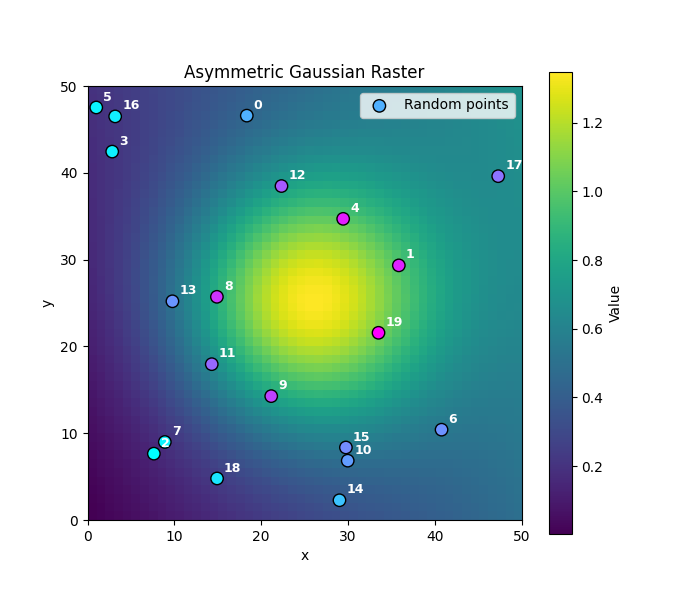
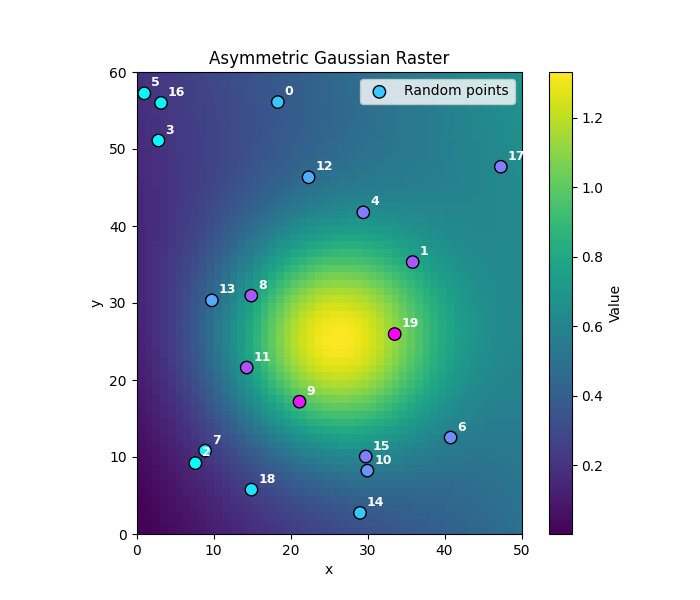
Check against amr_wind::interp::bilinear

diff --git a/unit_tests/utilities/test_raster_asc.cpp b/unit_tests/utilities/test_raster_asc.cpp
@@ -6,18 +6,18 @@
 
 using amr_wind::utils::RasterASC;
 
-double simple_bilinear(
-    double xll,
-    double yll,
-    double dx,
+amrex::Real simple_bilinear(
+    amrex::Real xll,
+    amrex::Real yll,
+    amrex::Real dx,
     int nx,
     int ny,
-    const std::vector<double>& vals,
-    double x,
-    double y)
+    const amrex::Vector<amrex::Real>& vals,
+    amrex::Real x,
+    amrex::Real y)
 {
-    double fx = (x - xll) / dx;
-    double fy = (y - yll) / dx;
+    amrex::Real fx = (x - xll) / dx;
+    amrex::Real fy = (y - yll) / dx;
     int i = static_cast<int>(fx);
     int j = static_cast<int>(fy);
 
@@ -27,21 +27,21 @@ double simple_bilinear(
     if (i >= nx - 1) i = nx - 2;
     if (j >= ny - 1) j = ny - 2;
 
-    double ddx = fx - i;
-    double ddy = fy - j;
+    amrex::Real ddx = fx - i;
+    amrex::Real ddy = fy - j;
 
     int idx00 = j * nx + i;
     int idx10 = j * nx + (i + 1);
     int idx01 = (j + 1) * nx + i;
     int idx11 = (j + 1) * nx + (i + 1);
 
-    double v00 = vals[idx00];
-    double v10 = vals[idx10];
-    double v01 = vals[idx01];
-    double v11 = vals[idx11];
+    amrex::Real v00 = vals[idx00];
+    amrex::Real v10 = vals[idx10];
+    amrex::Real v01 = vals[idx01];
+    amrex::Real v11 = vals[idx11];
 
-    double v0 = v00 * (1.0 - ddx) + v10 * ddx;
-    double v1 = v01 * (1.0 - ddx) + v11 * ddx;
+    amrex::Real v0 = v00 * (1.0 - ddx) + v10 * ddx;
+    amrex::Real v1 = v01 * (1.0 - ddx) + v11 * ddx;
     return v0 * (1.0 - ddy) + v1 * ddy;
 }
 
@@ -73,45 +73,57 @@ TEST(RasterASC, ReadAndInterp)
     RasterASC raster;
     raster.read("unit_tests/utilities/raster.asc");
 
-    std::vector<double> vals(
+    amrex::Vector<amrex::Real> vals(
         raster.value_ptr(), raster.value_ptr() + raster.nx() * raster.ny());
 
-    std::vector<double> xvec(raster.nx()), yvec(raster.ny());
+    amrex::Vector<amrex::Real> xvec(raster.nx()), yvec(raster.ny());
     for (int i = 0; i < raster.nx(); ++i)
         xvec[i] = raster.x0() + i * raster.dx();
     for (int j = 0; j < raster.ny(); ++j)
         yvec[j] = raster.y0() + j * raster.dx();
 
-    std::vector<std::tuple<double, double, double>> sample_points = {
-        {18.35246582, 46.58500101, 0.44239862},
-        {35.86770315, 29.33426573, 0.94196709},
-        {7.64491338, 7.64373150, 0.16562960},
-        {2.84609700, 42.44263114, 0.21750405},
-        {29.45463558, 34.69555631, 0.95882797},
-        {1.00864022, 47.52558276, 0.20468483},
-        {40.78968940, 10.40461642, 0.54802177},
-        {8.90942339, 8.98682098, 0.21414673},
-        {14.90786991, 25.71306515, 0.87791723},
-        {21.16530591, 14.27022787, 0.82893759},
-        {29.98079184, 6.83519917, 0.50818880},
-        {14.31508778, 17.95173032, 0.69534286},
-        {22.34742923, 38.47362211, 0.74547716},
-        {9.78401533, 25.19748748, 0.53652727},
-        {29.02831387, 2.27607022, 0.37606392},
-        {29.76969774, 8.35568206, 0.56783972},
-        {3.18752806, 46.49539133, 0.22711187},
-        {47.31596962, 39.61147006, 0.65539201},
-        {14.92607469, 4.78593359, 0.25920084},
-        {33.52741830, 21.56747219, 1.05801096},
-    };
-    for (size_t idx = 0; idx < sample_points.size(); ++idx) {
-        const auto& [x, y, expected] = sample_points[idx];
-        double actual = raster.interp(x, y);
-        double bilinear = amr_wind::interp::bilinear(xvec, yvec, vals, x, y);
+    const auto nx = raster.nx();
+    const auto ny = raster.ny();
+    amrex::Vector<amrex::Real> vals_colmajor(nx * ny);
+    for (int j = 0; j < ny; ++j) {
+        for (int i = 0; i < nx; ++i) {
+            vals_colmajor[i * ny + j] = vals[j * nx + i];
+        }
+    }
 
-        std::cout << "Point [" << idx << "] interp(" << x << ", " << y
-                  << ") = " << actual << ", bilinear = " << bilinear
-                  << ", expected = " << expected << std::endl;
+    amrex::Vector<std::tuple<amrex::Real, amrex::Real, amrex::Real>>
+        sample_points = {
+            {18.35246582, 56.09214408, 0.37614633},
+            {35.86770315, 35.32085057, 0.76834714},
+            {7.64491338, 9.20367670, 0.18235972},
+            {2.84609700, 51.10439260, 0.20160817},
+            {29.45463558, 41.77628209, 0.63283002},
+            {1.00864022, 57.22468128, 0.20113749},
+            {40.78968940, 12.52800753, 0.57948968},
+            {8.90942339, 10.82086608, 0.24168717},
+            {14.90786991, 30.96062947, 0.76456552},
+            {21.16530591, 17.18251927, 0.99193907},
+            {29.98079184, 8.23013778, 0.55662496},
+            {14.31508778, 21.61534875, 0.78565062},
+            {22.34742923, 46.32538172, 0.46843597},
+            {9.78401533, 30.33983187, 0.48460924},
+            {29.02831387, 2.74057435, 0.38430209},
+            {29.76969774, 10.06092330, 0.63800644},
+            {3.18752806, 55.98424670, 0.21921830},
+            {47.31596962, 47.69544354, 0.63721744},
+            {14.92607469, 5.76265473, 0.27800605},
+            {33.52741830, 25.96899713, 1.07977482},
+        };
+    for (int idx = 0; idx < sample_points.size(); ++idx) {
+        const auto& [x, y, expected] = sample_points[idx];
+        amrex::Real actual = raster.interp(x, y);
+        amrex::Real bilinear =
+            amr_wind::interp::bilinear(xvec, yvec, vals_colmajor, x, y);
+
+        // std::cout << "Point [" << idx << "] interp(" << x << ", " << y
+        //           << ") = " << actual << ", bilinear = " << bilinear
+        //           << ", expected = " << expected << std::endl;
         EXPECT_NEAR(actual, expected, 1e-8);
+        EXPECT_NEAR(actual, bilinear, 1e-8);
     }
 }

diff --git a/unit_tests/utilities/test_raster_asc.py b/unit_tests/utilities/test_raster_asc.py
@@ -29,7 +29,7 @@ def check_rasterio_cell_values(raster_path, points):
 
 def main(plot=False, npoints=20, seed=42):
     # --- 1. Generate raster with Gaussian hill + asymmetry ---
-    ncols = nrows = 50
+    ncols, nrows = 50, 60
     xllcorner = yllcorner = 0.0
     cellsize = 1.0
     nodata = -9999.0
